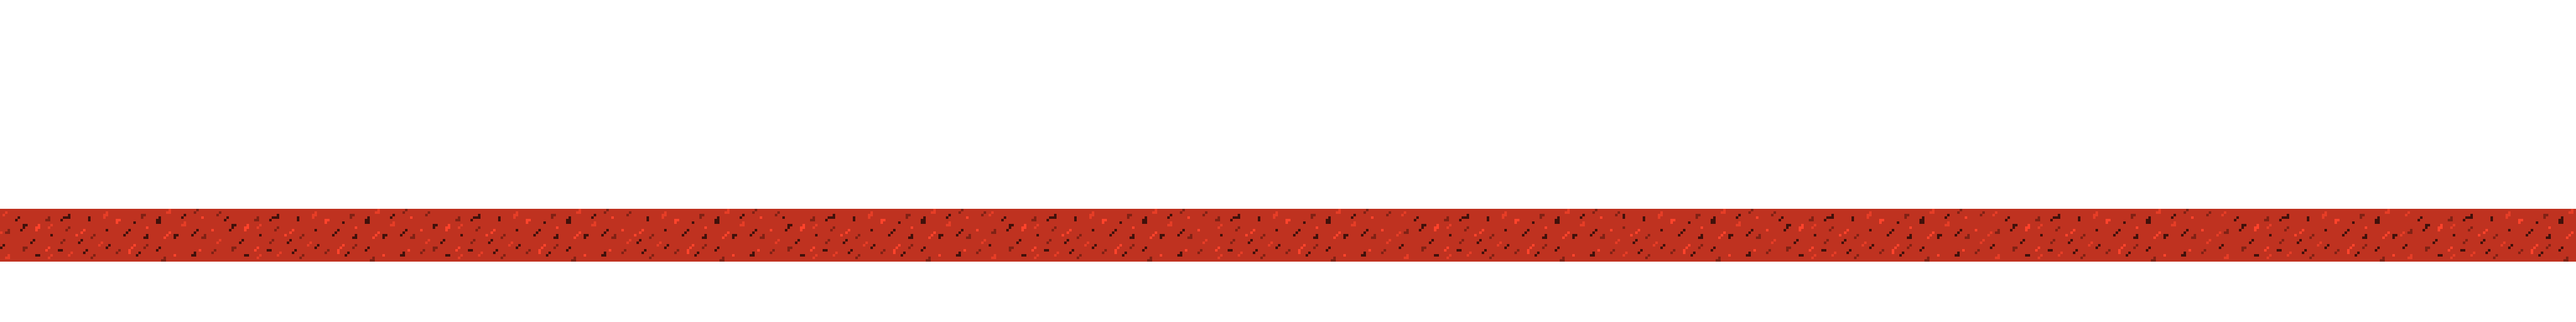
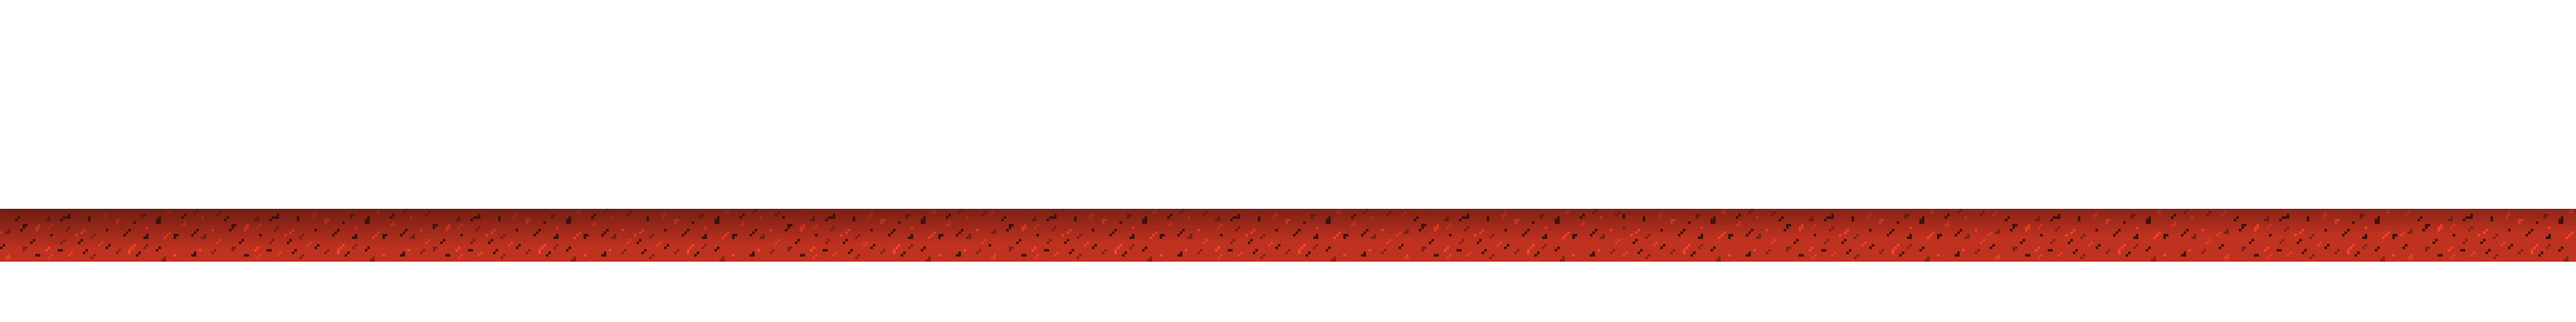
adjust speed, add shadow to the carpet

Changed region(s): [[0.0, 0.625, 1.0, 0.75]]

diff --git a/htdocs/js/main.js b/htdocs/js/main.js
@@ -98,8 +98,8 @@ function initialize() {
     function animate() {
 	// update positions
 	game.ticks++;
-	if(game.ticks % 200 == 0) {
-	    game.player.speed *= 1.1;
+	if(game.ticks % 1000 == 0) {
+	    game.speed *= 1.1;
 	}
 	game.player.speed += (1-game.player.speed)/300; 
 	game.player.x += game.player.speed * game.speed;
@@ -110,9 +110,9 @@ function initialize() {
 
 	// reposition background
 	backgroundFar2.tilePosition.x = game.player.x * -0.5;
-	backgroundFar.tilePosition.x = game.player.x * -0.75;
+	backgroundFar.tilePosition.x = game.player.x * -0.85;
 	backgroundMid.tilePosition.x = game.player.x * -1.0;
-	backgroundFront.tilePosition.x = game.player.x * -1.25;
+	backgroundFront.tilePosition.x = game.player.x * -1.15;
 	
 	// render
 	renderer.render(stage);
